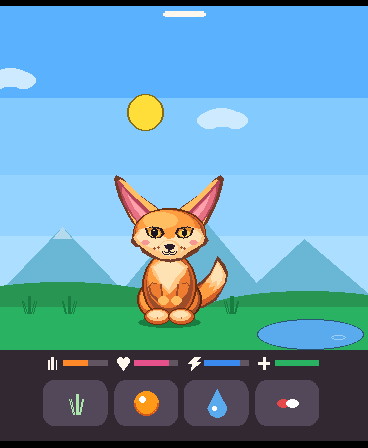
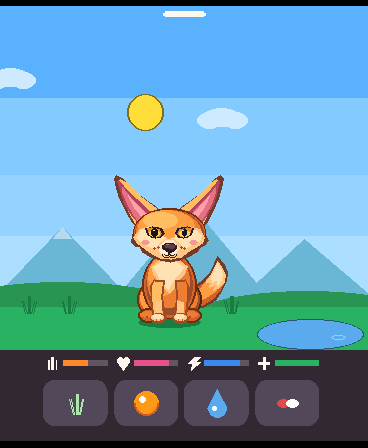
Refresh the gallery for Fennec's seated fox pose

Changed region(s): [[0.3587, 0.625, 0.5679, 0.75], [0.4185, 0.5312, 0.5082, 0.5938]]

diff --git a/docs/SCREENSHOTS_RU.md b/docs/SCREENSHOTS_RU.md
@@ -30,7 +30,7 @@
 
 ## Фенек крупным планом
 
-По детскому рисунку сохранили сложенные перед собой лапки и кавайное выражение. По фотографии фенека уточнили силуэт: уши широко расходятся, мордочка сужается книзу, а жёлтые миндалевидные глаза смотрят из-под тёмного ободка. Шерсть осталась рыжей, хвост пушистым.
+От детского рисунка остались большие уши и кавайное выражение. По фотографии фенека уточнили силуэт: уши широко расходятся, мордочка сужается к заметному тёмному носику, а передние лапки опираются на землю. Глаза жёлтые и миндалевидные. Шерсть осталась рыжей, хвост пушистым.
 
 [![Фенек знакомится, радуется и дремлет](img/medvegoshi-ru/fennec-preview.png)](img/medvegoshi-ru/fennec-preview.png)
 
